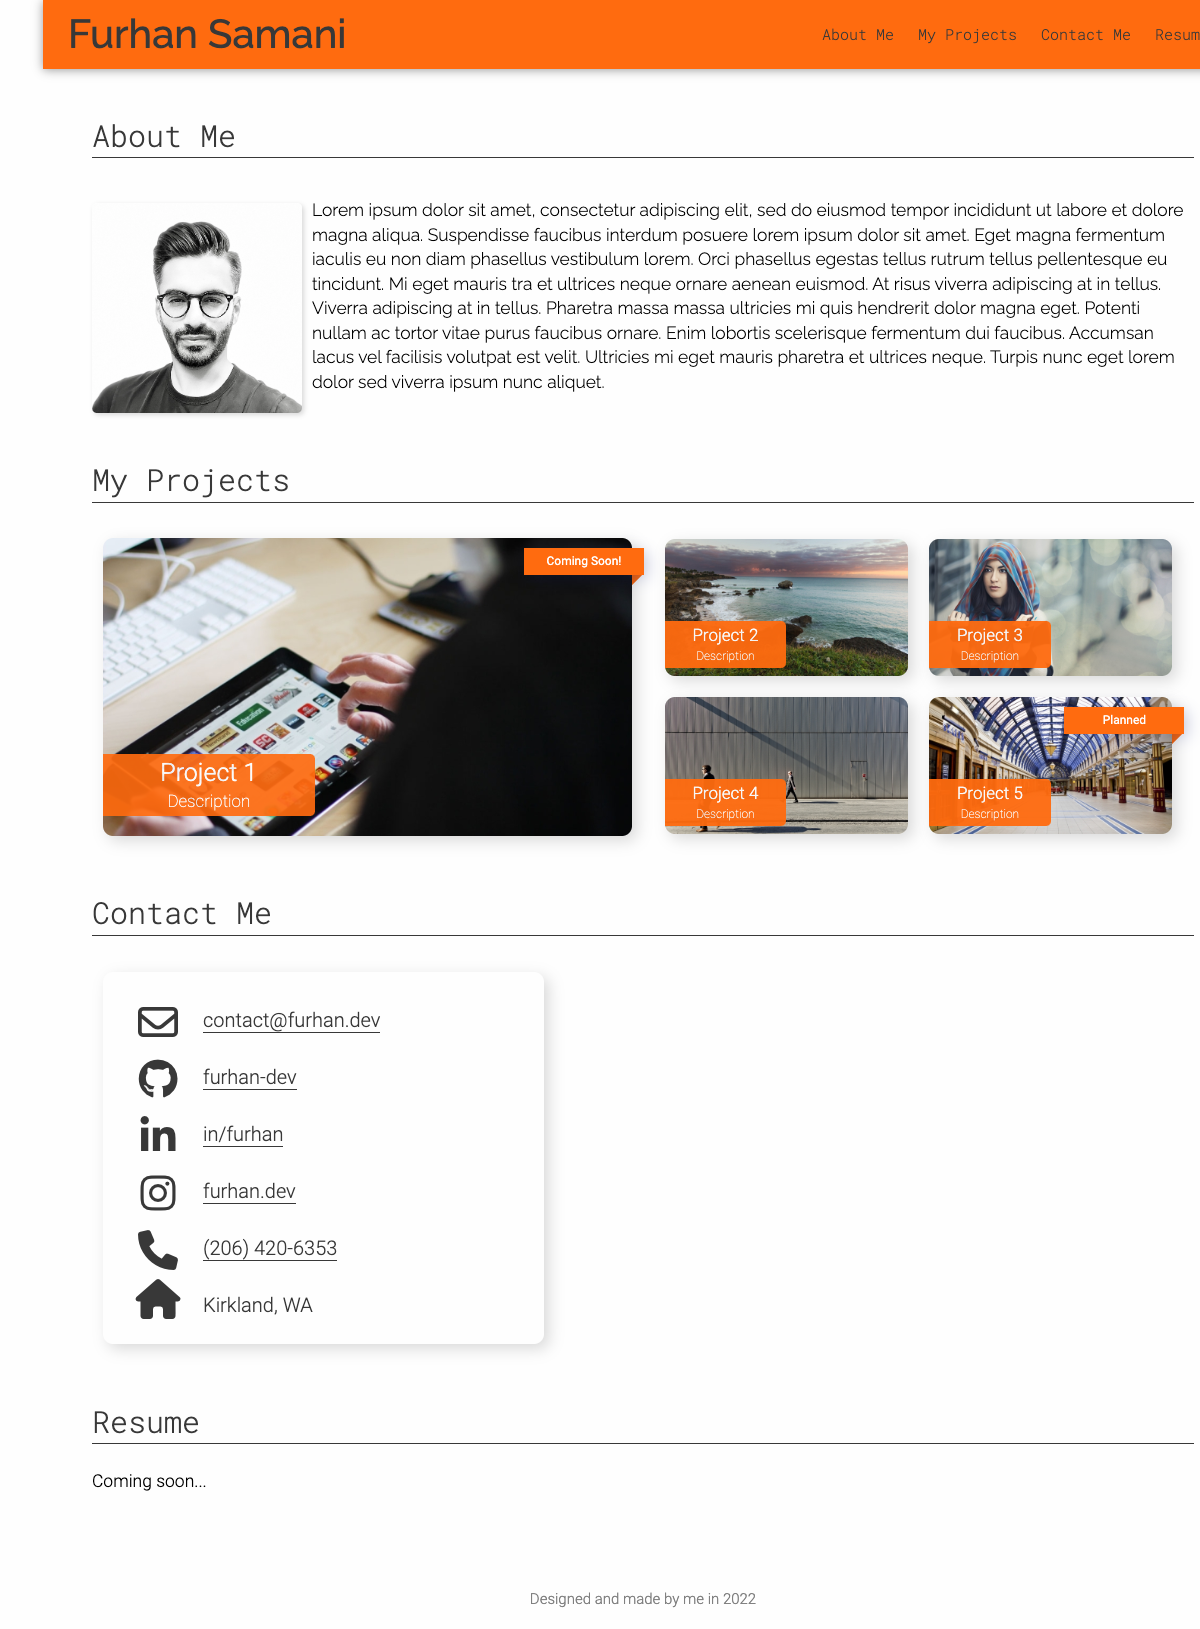
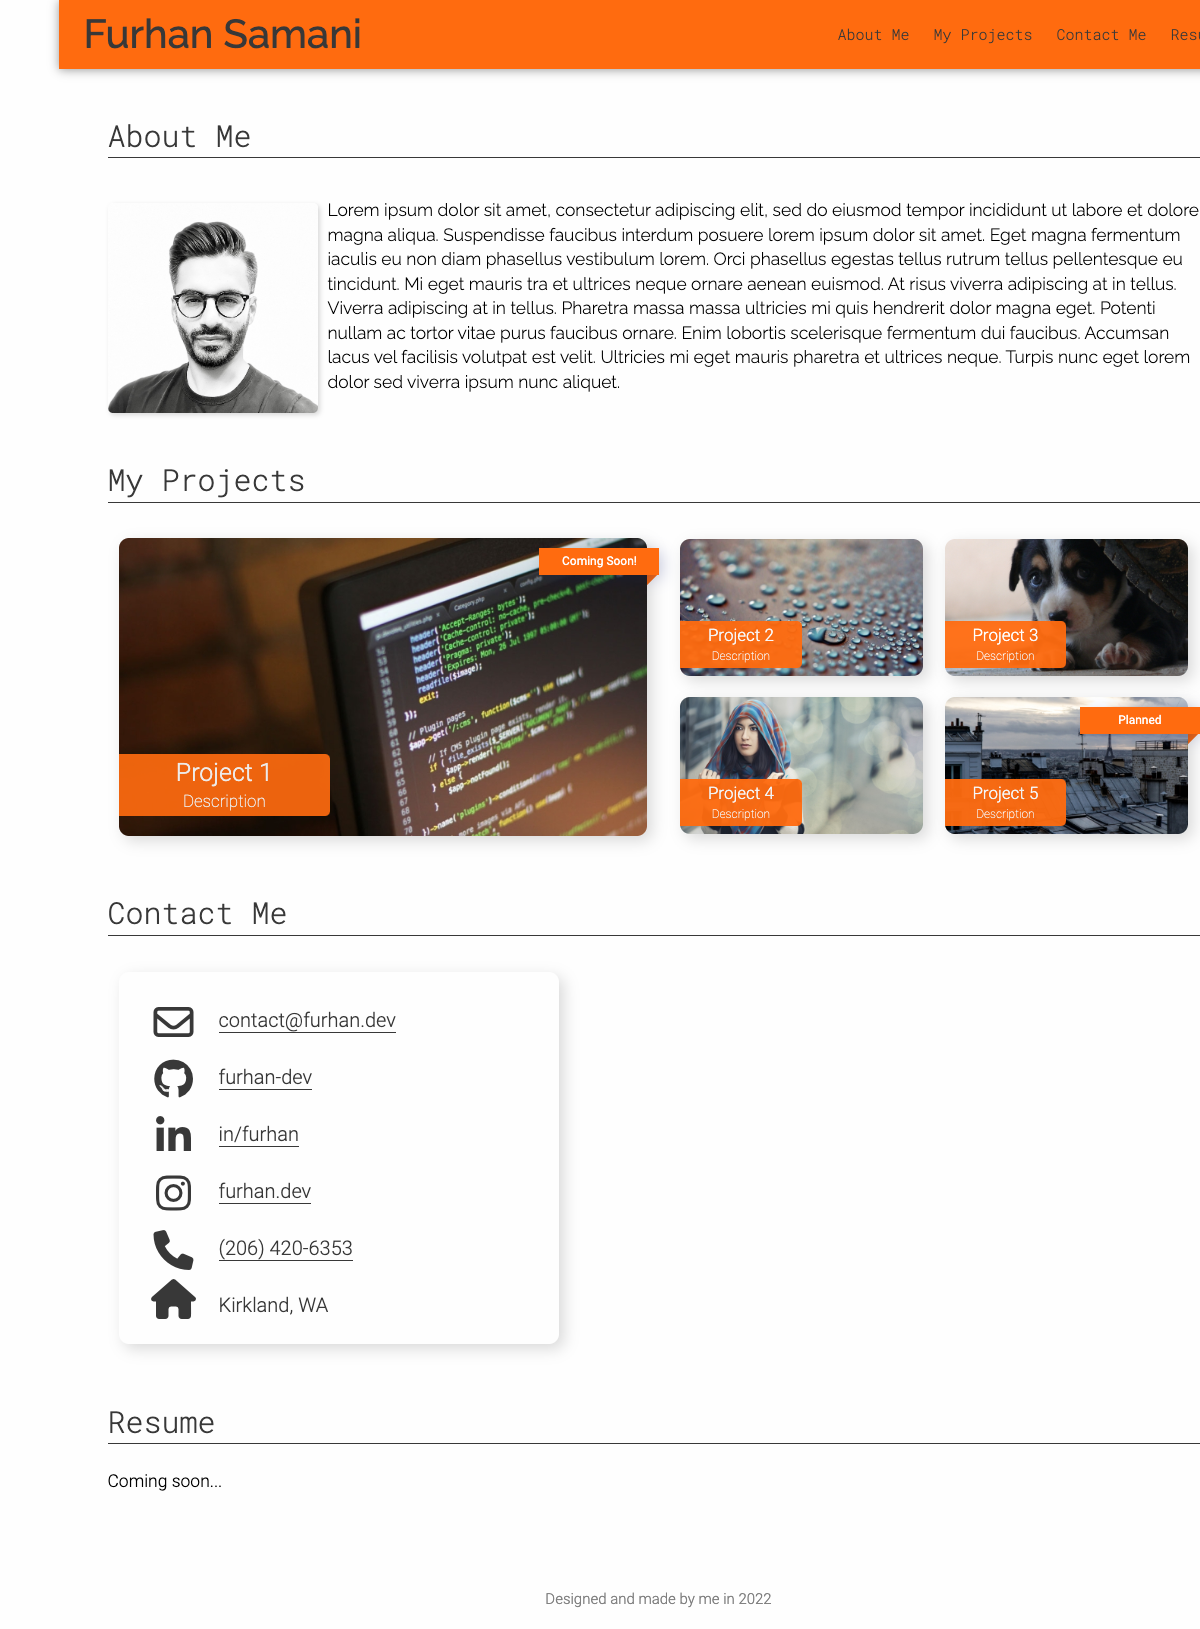
update screenshots after fixing src in one of the project images

diff --git a/index.html b/index.html
@@ -95,7 +95,7 @@
 
         <figure class="card">
           <a href="#projects">
-            <img src="http://placeimg.com/640/360/animal" alt="project image" class="card-image" />
+            <img src="http://placeimg.com/640/360/animals" alt="project image" class="card-image" />
             <figcaption class="card-label">
               <h4 class="card-header">Project 3</h4>
               <h5 class="card-desc">Description</h5>
